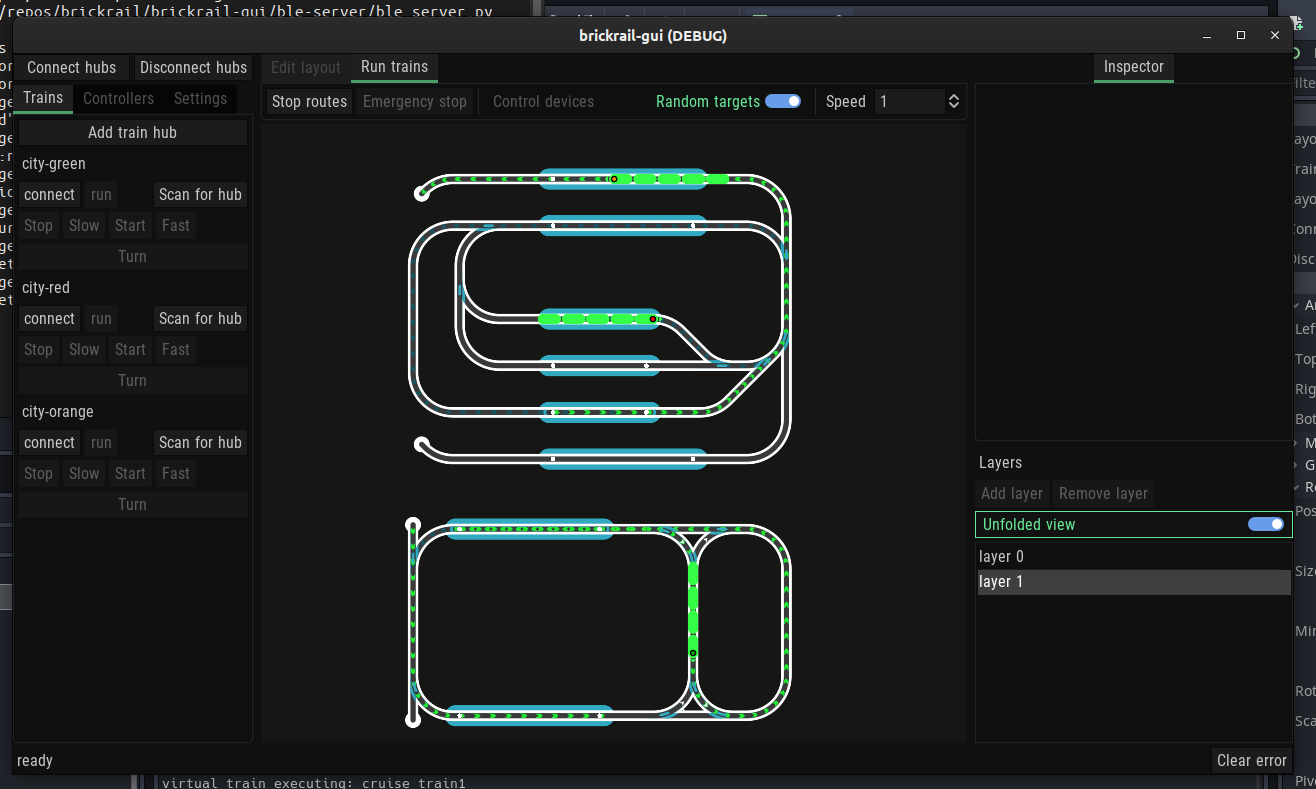
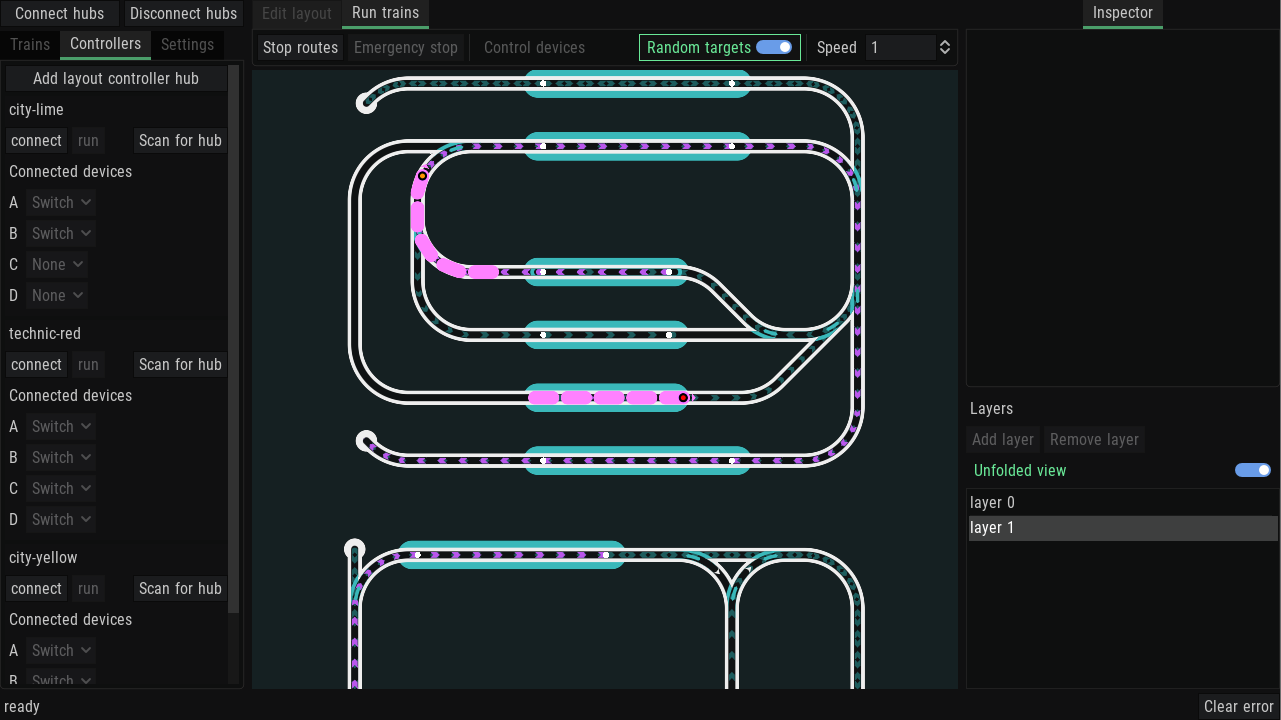
add extremely new screenshot

Changed region(s): [[0.0, 0.0, 1.0, 1.0], [0.0, 0.8556, 0.0937, 1.0], [0.6557, 0.7944, 0.687, 0.9778]]

diff --git a/README.md b/README.md
@@ -6,7 +6,7 @@ This project contains microphython programs running on the LEGO hardware, a pyth
 Communication between GUI and python server is done through websockets.
 As of now, trains detect their location via a Boost Color and Distance Sensor pointed dowwards onto the track. Colored markers signal the bounds of block sections.
 
-![GUI screenshot](screenshot2.PNG)
+![GUI screenshot](screenshot3.PNG)
 
 [Here](https://www.youtube.com/watch?v=cBF-G4d4vw8)'s a video of brickrail in action with a multi-layered layout.
 
